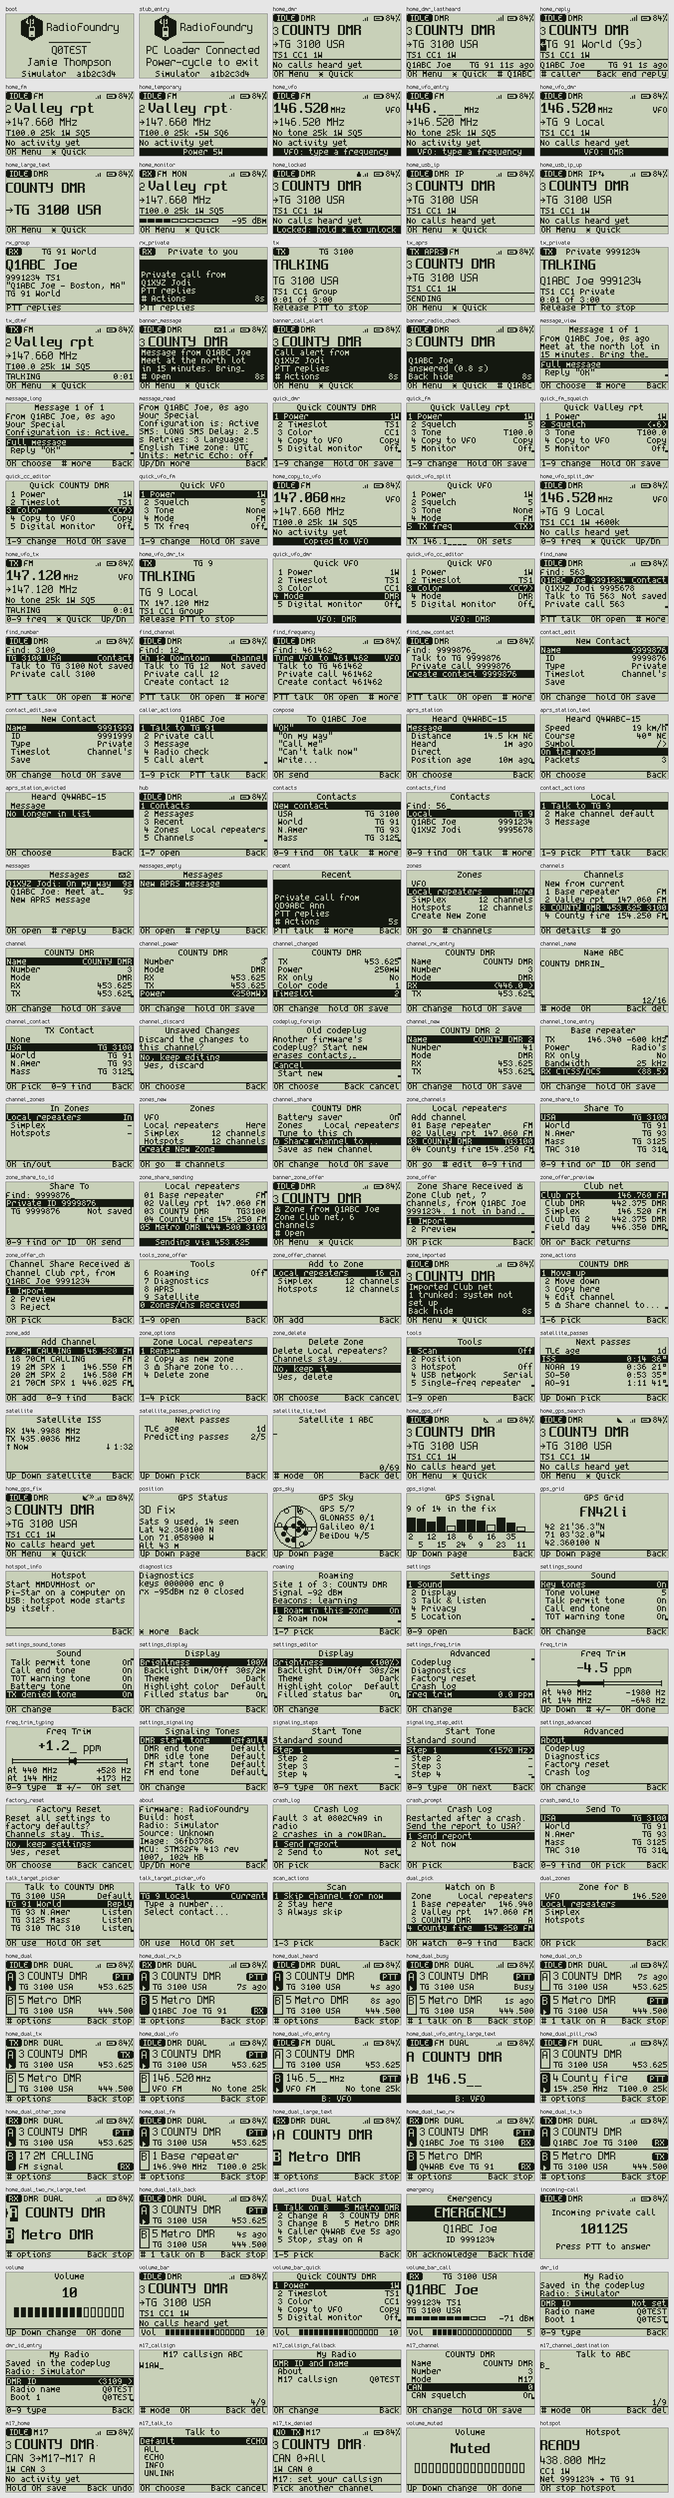
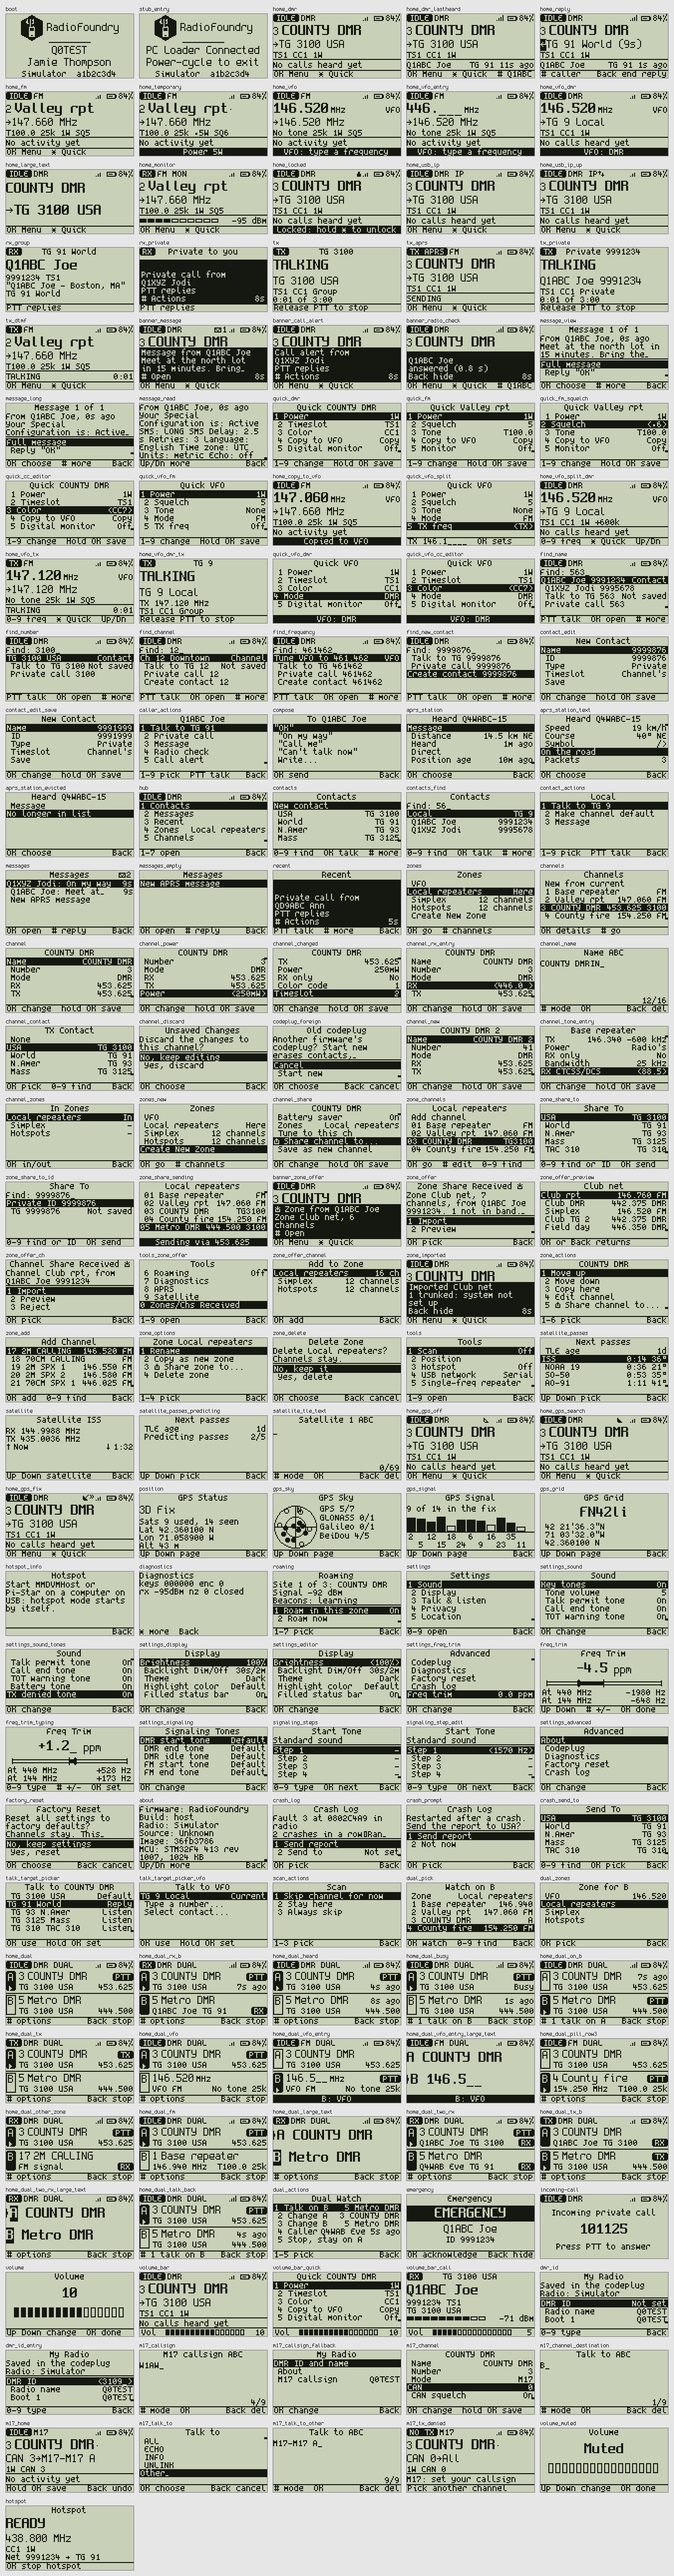
M17: type a custom Talk to destination
Talk to's Other... row opens the shared text editor for a temporary M17
destination (a callsign or a reflector module such as M17-M17 A). The edit is
tied to the channel or VFO it was opened from, the programmed destination is
kept, and changing channel clears the override.

Two Talk to flows from the previous commit now expect six rows and one more Up
press, since Other... is the new last row.

Code and tests by Codex (gpt-6.2-sol) from a Claude brief (45c); reviewed,
host-tested and committed by Claude.

diff --git a/core/ui/ui_menus.c b/core/ui/ui_menus.c
@@ -2105,7 +2105,7 @@ uint8_t ui_menus_zones_moved(ui_frame_t *stack, uint8_t sp, uint32_t from, uint3
 }
 #endif
 
-#if CONFIG_CHANNEL_EDIT || CONFIG_APRS_AFSK || CONFIG_DMR_SMS || CONFIG_SATELLITE_TLE || (CONFIG_M17 && CONFIG_UI_SETTINGS)
+#if CONFIG_CHANNEL_EDIT || CONFIG_APRS_AFSK || CONFIG_DMR_SMS || CONFIG_SATELLITE_TLE || CONFIG_M17
 // ======================= Text entry: keypad letters (ui.md 2.1) =======================
 // Phone keypad: in ABC / abc, 2-9 cycle their letters, the digit, then the letters in the other case (ABC: A B C 2 a b
 // c); 1 cycles punctuation and 0 a space, 0 and a few signs. The same key within 1 s takes the next one, another key
@@ -2134,13 +2134,13 @@ enum { TEXT_NAME, TEXT_MESSAGE, TEXT_CALLSIGN,
 #if CONFIG_SATELLITE_TLE
 	TEXT_SATELLITE,
 #endif
-#if CONFIG_M17 && (CONFIG_UI_SETTINGS || CONFIG_CHANNEL_EDIT)
+#if CONFIG_M17
 	TEXT_M17,
 	TEXT_M17_DST,
 #endif
 	TEXT_PREFIXES };
 static uint8_t text_prefix;
-#if CONFIG_M17 && (CONFIG_UI_SETTINGS || CONFIG_CHANNEL_EDIT)
+#if CONFIG_M17
 enum { TEXT_PROFILE_FREE, TEXT_PROFILE_M17_CALL, TEXT_PROFILE_M17_DST };
 static uint8_t text_profile;
 #endif
@@ -2171,7 +2171,7 @@ static void text_open(char *target, uint8_t max, uint8_t screen)
 	if (screen == SCR_SATELLITE_TEXT)
 		text_prefix = TEXT_SATELLITE;
 #endif
-#if CONFIG_M17 && (CONFIG_UI_SETTINGS || CONFIG_CHANNEL_EDIT)
+#if CONFIG_M17
 	text_profile = TEXT_PROFILE_FREE;
 #if CONFIG_UI_SETTINGS
 	if (screen == SCR_M17_CALL) {
@@ -2180,13 +2180,11 @@ static void text_open(char *target, uint8_t max, uint8_t screen)
 		text_max = max;
 	}
 #endif
-#if CONFIG_CHANNEL_EDIT
-	if (screen == SCR_M17_CHAN_DST) {
+	if (screen == SCR_M17_CHAN_DST || screen == SCR_M17_TALK_TO_OTHER) {
 		text_prefix = TEXT_M17_DST;
 		text_profile = TEXT_PROFILE_M17_DST;
 		text_max = max;
 	}
-#endif
 #endif
 	ui_push(screen, 0);
 }
@@ -2293,8 +2291,8 @@ static void text_append(char c)
 	text_buf[text_len] = 0;
 }
 
-#if CONFIG_M17 && (CONFIG_UI_SETTINGS || CONFIG_CHANNEL_EDIT)
-// Callsign: A-Z, 0-9, - / . Fold a-z. Destination (the channel editor) also allows a space inside.
+#if CONFIG_M17
+// Callsign: A-Z, 0-9, - / . Fold a-z. A destination also allows a space inside.
 static bool text_m17_ok(char c)
 {
 	if (c >= 'a' && c <= 'z')
@@ -2372,7 +2370,7 @@ static void text_draw(void)
 #if CONFIG_SATELLITE_TLE
 		TRN(SATELLITE_2, "Satellite"),
 #endif
-#if CONFIG_M17 && (CONFIG_UI_SETTINGS || CONFIG_CHANNEL_EDIT)
+#if CONFIG_M17
 		TRN(M17_LABEL_CALLSIGN, TEXT_ALT_OPEN "M17 callsign" TEXT_ALT_NEXT "M17 call" TEXT_ALT_CLOSE),
 		TRN(M17_LABEL_TALK_TO, "Talk to"),
 #endif
@@ -2452,7 +2450,7 @@ static bool text_key_fn(const input_event_t *ev)
 	if (ev->action >= ACT_DIGIT_0 && ev->action <= ACT_DIGIT_9 && press) {
 		int8_t k = (int8_t)(ev->action - ACT_DIGIT_0);
 		const char *set = keys[k];
-#if CONFIG_M17 && (CONFIG_UI_SETTINGS || CONFIG_CHANNEL_EDIT)
+#if CONFIG_M17
 		if (text_profile != TEXT_PROFILE_FREE) {
 			if (text_mode == TEXT_DIGITS || ev->gesture == GESTURE_LONG) {
 				text_m17_take((char)('0' + k), false);
@@ -2490,7 +2488,7 @@ static bool text_key_fn(const input_event_t *ev)
 	int dir = ev->action == ACT_NAV_UP ? 1 : ev->action == ACT_NAV_DOWN ? -1 :
 		ev->action == ACT_ENC_STEP ? (ev->value > 0 ? 1 : -1) : 0;
 	if (dir != 0 && ev->gesture != GESTURE_UP) {
-#if CONFIG_M17 && (CONFIG_UI_SETTINGS || CONFIG_CHANNEL_EDIT)
+#if CONFIG_M17
 		if (text_profile != TEXT_PROFILE_FREE) {
 			text_m17_step(dir);	// the allowed alphabet only; down from its first character deletes
 			text_key = -1;
@@ -2537,20 +2535,19 @@ static bool text_key_fn(const input_event_t *ev)
 	}
 	if (ev->action == ACT_SELECT && press) {
 		if (!(board.caps & CAP_KEYPAD) && ev->gesture == GESTURE_PRESS) {
-#if CONFIG_M17 && (CONFIG_UI_SETTINGS || CONFIG_CHANNEL_EDIT)
+#if CONFIG_M17
 			if (text_profile != TEXT_PROFILE_FREE)
 				text_m17_take(text_len > 0 ? text_buf[text_len - 1] : 'A', false);
 			else
 #endif
 				text_append(text_len > 0 ? text_buf[text_len - 1] : 'A');	// the next character, started as this one
 		} else {
-#if CONFIG_M17 && (CONFIG_UI_SETTINGS || CONFIG_CHANNEL_EDIT)
+#if CONFIG_M17
 			if (text_profile != TEXT_PROFILE_FREE && !text_m17_commit()) {
 				ui_toast(TR(M17_TOAST_CHAR, "Letters, digits and - / ."));
 				ui_dirty();
 				return true;
 			}
-#if CONFIG_CHANNEL_EDIT
 			if (text_profile == TEXT_PROFILE_M17_DST) {
 				uint64_t dst;
 				if (!m17_dst_parse(text_buf, &dst)) {
@@ -2559,7 +2556,6 @@ static bool text_key_fn(const input_event_t *ev)
 					return true;
 				}
 			}
-#endif
 #endif
 			if (text_target != text_buf)
 				strcpy(text_target, text_buf);
@@ -8444,8 +8440,10 @@ static const ui_scr_def_t picker_screen = {
 
 #if CONFIG_M17
 static const char *const m17_presets[] = { "ALL", "ECHO", "INFO", "UNLINK" };
+enum { M17_TALK_OTHER = 1 + sizeof m17_presets / sizeof m17_presets[0] };
 static uint32_t m17_talk_generation;
 static uint64_t m17_talk_base;
+static char m17_talk_text[M17_ADDR_CHARS_MAX + 1];
 
 static void m17_talk_enter(void)
 {
@@ -8454,7 +8452,7 @@ static void m17_talk_enter(void)
 	m17_talk_base = sel != NULL ? sel->base_dst : 0;
 }
 
-static uint16_t m17_talk_count(void) { return 1 + sizeof m17_presets / sizeof m17_presets[0]; }
+static uint16_t m17_talk_count(void) { return M17_TALK_OTHER + 1; }
 
 static void m17_talk_item(uint16_t i, ui_item_t *it)
 {
@@ -8462,27 +8460,62 @@ static void m17_talk_item(uint16_t i, ui_item_t *it)
 		char dst[RADIO_M17_CALL_LEN];
 		str_copy(it->label, sizeof it->label, TR(VALUE_DEFAULT, "Default"));
 		str_copy(it->value, sizeof it->value, ui_m17_destination(m17_talk_base, dst));
+	} else if (i == M17_TALK_OTHER) {
+		str_copy(it->label, sizeof it->label, TR(M17_ROW_TALK_OTHER, "Other" GLYPH_ELLIPSIS));
 	} else {
 		str_copy(it->label, sizeof it->label, m17_presets[i - 1]);
 	}
+}
+
+static const radio_m17_selected_t *m17_talk_current(void)
+{
+	const radio_m17_selected_t *sel = ui_m17_selected(ui_view());
+	if (sel == NULL || sel->generation != m17_talk_generation) {
+		ui_toast(TR(M17_TOAST_CHANNEL_CHANGED, "Channel changed"));
+		return NULL;
+	}
+	return sel;
+}
+
+static void m17_talk_submit(const char *dest)
+{
+	if (m17_talk_current() == NULL)
+		return;
+	uint64_t dst = 0;
+	if ((dest != NULL && !m17_dst_parse(dest, &dst)) || !radio_req_m17_talk_to(m17_talk_generation, dst)) {
+		ui_toast(TR(M17_TOAST_TALK_TO_FAILED, "Couldn't queue Talk to"));
+		return;
+	}
+	ui_pop();
+}
+
+static void m17_talk_other_kept(void)
+{
+	m17_talk_submit(m17_talk_text);
 }
 
 static void m17_talk_select(uint16_t i, bool hold)
 {
 	if (hold)
 		return;
-	const radio_m17_selected_t *sel = ui_m17_selected(ui_view());
-	if (sel == NULL || sel->generation != m17_talk_generation) {
-		ui_toast(TR(M17_TOAST_CHANNEL_CHANGED, "Channel changed"));
+	if (i != M17_TALK_OTHER) {
+		m17_talk_submit(i == 0 ? NULL : m17_presets[i - 1]);
 		return;
 	}
-	uint64_t dst = 0;
-	if ((i != 0 && !m17_dst_parse(m17_presets[i - 1], &dst)) || !radio_req_m17_talk_to(m17_talk_generation, dst)) {
-		ui_toast(TR(M17_TOAST_TALK_TO_FAILED, "Couldn't queue Talk to"));
+	const radio_m17_selected_t *sel = m17_talk_current();
+	if (sel == NULL)
 		return;
-	}
-	ui_pop();
+	if (sel->effective_dst == M17_ADDR_BROADCAST)
+		m17_talk_text[0] = '\0';
+	else
+		ui_m17_destination(sel->effective_dst, m17_talk_text);
+	text_open(m17_talk_text, M17_ADDR_CHARS_MAX, SCR_M17_TALK_TO_OTHER);
+	text_done = m17_talk_other_kept;
 }
+
+static const ui_scr_def_t m17_talk_other_screen = {
+	.name = "m17-talk-to-other", .flags = SF_FIELD, .key = text_key_fn, .enter = text_enter, .draw = text_draw,
+};
 
 static const ui_scr_def_t m17_talk_screen = {
 	.name = "m17-talk-to", .flags = SF_LIST | SF_FIELD, .prefix = TRN(M17_LABEL_TALK_TO, "Talk to"),
@@ -8703,6 +8736,7 @@ const ui_scr_def_t *const ui_scr[SCR_COUNT] = {
 #endif
 #if CONFIG_M17
 	[SCR_M17_TALK_TO] = &m17_talk_screen,
+	[SCR_M17_TALK_TO_OTHER] = &m17_talk_other_screen,
 #endif
 #if CONFIG_CRASH_SCREEN
 	[SCR_CRASH] = &crash_screen,

diff --git a/tests/host/uiFlowTest.c b/tests/host/uiFlowTest.c
@@ -301,7 +301,7 @@ static const flow_t flows[] = {
 	{ "M17 home: broadcast is All", "m17 dlmode:m17", "",
 	  "screen=home shows=CAN_0 shows=All", 0, false },
 	{ "M17 Talk to: stored list", SIM_M17_STORED_ECHO,
-	  "quick up up expect:quick8=ECHO expect:shows=ECHO 8 expect:screen=m17-talk-to expect:count=5 "
+	  "quick up up expect:quick8=ECHO expect:shows=ECHO 8 expect:screen=m17-talk-to expect:count=6 "
 	  "expect:focus=Default expect:focusvalue=ECHO down expect:focus=ALL down expect:focus=ECHO "
 	  "down expect:focus=INFO down expect:focus=UNLINK",
 	  "screen=m17-talk-to m17tx=ECHO m17programmed=ECHO", 8, false },
@@ -315,8 +315,8 @@ static const flow_t flows[] = {
 	  "down down down ok expect:screen=quick expect:quick8=INFO expect:shows=INFO back",
 	  "screen=home shows=INFO m17tx=INFO m17programmed=ECHO", 5, false },
 	{ "M17 Talk to: every preset (UNLINK)", SIM_M17_STORED_ECHO " quick 8",
-	  "up ok expect:screen=quick expect:quick8=UNLINK expect:shows=UNLINK back",
-	  "screen=home shows=UNLINK m17tx=UNLINK m17programmed=ECHO", 3, false },
+	  "up up ok expect:screen=quick expect:quick8=UNLINK expect:shows=UNLINK back",
+	  "screen=home shows=UNLINK m17tx=UNLINK m17programmed=ECHO", 4, false },
 	{ "M17 Talk to: VFO Default", "m17 dlvfo:438800000 dlmode:m17 m17vfo:ECHO quick 8",
 	  "expect:focusvalue=ECHO down down down ok expect:screen=quick expect:quick8=INFO expect:shows=INFO "
 	  "back expect:screen=home expect:m17tx=INFO expect:shows=INFO quick 8 ok "
@@ -325,13 +325,44 @@ static const flow_t flows[] = {
 	{ "M17 Talk to: stored Default and channel change", SIM_M17_STORED_ECHO " m17stored:5,UNLINK quick 8 down down down ok",
 	  "8 expect:focusvalue=ECHO ok expect:screen=quick expect:quick8=ECHO back "
 	  "expect:screen=home expect:m17tx=ECHO expect:shows=ECHO expect:m17programmed=ECHO "
-	  "quick 8 up ok back expect:m17tx=UNLINK dlpos:5 expect:m17tx=UNLINK dlpos:3",
-	  "screen=home m17tx=ECHO m17programmed=ECHO shows=ECHO m17requests=3", 8, false },
+	  "quick 8 up up ok back expect:m17tx=UNLINK dlpos:5 expect:m17tx=UNLINK dlpos:3",
+	  "screen=home m17tx=ECHO m17programmed=ECHO shows=ECHO m17requests=3", 9, false },
+	{ "M17 Talk to Other: opens", SIM_M17_STORED_ECHO " quick 8",
+	  "down down down down down expect:focus=Other ok",
+	  "screen=m17-talk-to-other shows=Talk_to shows=ABC showsraw=ECHO_ shows=4/9 m17requests=0", 6, false },
 #if CONFIG_CHANNEL_EDIT
+	{ "M17 Talk to Other: reflector", SIM_M17_STORED_ECHO " m17stored:5,UNLINK quick 8 up ok",
+	  "back back back back 6 long:1 long:7 1 1 6 long:1 long:7 0 2 expect:shows=M17-M17_A expect:shows=9/9 "
+	  "ok expect:screen=quick expect:quick8=M17-M17_A expect:m17tx=M17-M17_A back "
+	  "expect:screen=home expect:shows=M17-M17_A expect:m17tx=M17-M17_A "
+	  "ok 5 ok down down down down down expect:screen=channel expect:focus=Talk_to expect:focusvalue=ECHO "
+	  "expect:m17programmed=ECHO long:back dlpos:5 expect:m17tx=UNLINK expect:m17programmed=UNLINK dlpos:3",
+	  "screen=home m17tx=ECHO m17programmed=ECHO m17requests=1", 26, false },
 	{ "M17 Talk to: channel editor", SIM_M17_STORED_ECHO " quick 8 down down down ok",
 	  "expect:quick8=INFO back expect:screen=home expect:shows=INFO ok 5 ok down down down down down",
 	  "screen=channel focus=Talk_to focusvalue=ECHO m17tx=INFO m17programmed=ECHO", 9, false },
 #endif
+	{ "M17 Talk to Other: lowercase", "m17 dlvfo:438800000 dlmode:m17 m17vfo:ALL quick 8 up ok",
+	  "expect:shows=0/9 ctx ctx expect:shows=abc 9 ok expect:screen=quick expect:quick8=W back",
+	  "screen=home vfo=1 m17base=ALL m17tx=W m17requests=1", 5, false },
+	{ "M17 Talk to Other: blank", SIM_M17_STORED_ECHO " quick 8 down down down ok 8 up ok",
+	  "expect:showsraw=INFO_ back back back back ok expect:screen=quick expect:quick8=All back",
+	  "screen=home m17tx=ALL m17programmed=ECHO m17requests=2", 6, false },
+	{ "M17 Talk to Other: ALL", SIM_M17_STORED_ECHO " quick 8 up ok",
+	  "back back back back 2 5 5 5 wait:1100 5 5 5 ok expect:screen=quick expect:quick8=All back",
+	  "screen=home m17tx=ALL m17programmed=ECHO m17requests=1", 13, false },
+	{ "M17 Talk to Other: invalid", SIM_M17_STORED_ECHO " quick 8 up ok",
+	  "back back back back 0 2 ok",
+	  "screen=m17-talk-to-other toast=Not_an_M17_address shows=2/9 m17tx=ECHO m17requests=0", 7, false },
+	{ "M17 Talk to Other: back", SIM_M17_STORED_ECHO " quick 8 down down down ok 8 up ok",
+	  "2 back back back back back back expect:screen=m17-talk-to expect:focus=Other expect:m17requests=1 "
+	  "ok expect:showsraw=INFO_ 2 long:back",
+	  "screen=home m17tx=INFO m17programmed=ECHO m17requests=1", 10, false },
+	{ "M17 Talk to Other: stale", SIM_M17_STORED_ECHO " m17stored:5,UNLINK quick 8 up ok",
+	  "2 dlpos:5 expect:screen=m17-talk-to-other expect:m17gen=2 ok "
+	  "expect:screen=m17-talk-to expect:toast=Channel_changed expect:m17requests=0 "
+	  "back expect:screen=quick expect:quick8=UNLINK back",
+	  "screen=home m17tx=UNLINK m17programmed=UNLINK m17requests=0", 4, false },
 #if CONFIG_DUAL_WATCH
 	{ "M17 Talk to: selected watch side", SIM_M17_STORED_ECHO " m17stored:5,UNLINK quick 7 ctx 3 5 ok",
 	  "ctx 1 expect:sel=B expect:m17gen=2 expect:m17tx=ECHO expect:m17selected=UNLINK "
@@ -1629,6 +1660,12 @@ static const flow_t flows_k[] = {
 static const flow_t flows_f[] = {
 	{ "F next channel", "", "up", "pos=4", 1, false },
 	{ "F quick settings (long OK)", "", "long:ok", "screen=quick", 1, false },
+#if CONFIG_M17
+	{ "F M17 Talk to Other by Up / Down", "m17 m17stored:3,ALL",
+	  "long:ok up up ok up ok expect:screen=m17-talk-to-other down ok up long:ok "
+	  "expect:screen=quick expect:quick8=AB back",
+	  "screen=home m17tx=AB m17requests=1", 11, false },
+#endif
 	{ "F last caller (Hub item 0)", CALLER, "ok ok ptt", "txid=91", 3, false },
 	{ "F zone", "", "ok down down down down ok down ok", "zone=1", 8, false },
 	// A key set to key lock on a key map with no QUICK: long Back still unlocks as well

diff --git a/tests/host/uiSim.c b/tests/host/uiSim.c
@@ -228,7 +228,8 @@ static const struct { const char *name, *script; } gallery[] = {
 	{ "m17_channel", "m17 ok 5 ok down down ok down" },
 	{ "m17_channel_destination", "m17 ok 5 ok down down ok down down down ok back back back 2 2" },
 	{ "m17_home", "m17 dlmode:m17 m17tx:3,M17-M17_A" },
-	{ "m17_talk_to", SIM_M17_STORED_ECHO " quick 8" },
+	{ "m17_talk_to", SIM_M17_STORED_ECHO " quick 8 down down down down down" },
+	{ "m17_talk_to_other", SIM_M17_STORED_ECHO " quick 8 up ok back back back back 6 long:1 long:7 1 1 6 long:1 long:7 0 2" },
 	{ "m17_tx_denied", "m17 dlmode:m17 m17deny:call" },
 #endif
 	{ "volume_muted", "softvol volkey down down down down down down down down" },

diff --git a/core/ui/ui_nav.h b/core/ui/ui_nav.h
@@ -52,6 +52,7 @@ typedef enum {
 	SCR_M17_CALL,			// the radio-wide M17 callsign (Settings > My radio; CONFIG_M17)
 	SCR_M17_CHAN_DST,		// an M17 channel's Talk to (the channel editor; CONFIG_M17)
 	SCR_M17_TALK_TO,		// temporary M17 destination (Quick settings; CONFIG_M17)
+	SCR_M17_TALK_TO_OTHER,		// custom temporary M17 destination (CONFIG_M17)
 	SCR_COUNT
 } ui_scr_t;
 

diff --git a/docs/spec/m17.md b/docs/spec/m17.md
@@ -391,11 +391,19 @@ the DMR vocoder's working memory) while it runs. It needs no stock codec in flas
 | Quick 8: Talk to | a temporary destination for the selected M17 channel or VFO |
 
 Quick shows the effective transmit destination, with broadcast shown as **All**. Select **Talk to** to open
-`m17-talk-to`. The first row is **Default** and shows the base destination for the channel or VFO. It is followed by
-`ALL`, `ECHO`, `INFO` and `UNLINK`. **Default** clears the temporary choice. OK queues the choice and returns to
-Quick. Back cancels and returns to Quick, and Back from Quick reaches Home. The picker captures the base and
-generation at entry. If the selected generation has changed, or the UI cannot queue the request, the picker
-shows a message and stays open.
+`m17-talk-to`. Its rows are **Default**, `ALL`, `ECHO`, `INFO`, `UNLINK` and **Other…**, in that order.
+**Default** shows the base destination for the channel or VFO and clears the temporary choice. OK queues a choice
+and returns to Quick. Back leaves the picker for Quick, and Back from Quick reaches Home.
+
+**Other…** opens `m17-talk-to-other` with the shared **Talk to** prompt and the effective destination as its
+initial text, blank for broadcast. The shared nine-character destination editor folds lowercase and accepts
+spaces inside the address. OK uses the same parser as the stored channel editor. Blank or `ALL` selects broadcast.
+An invalid address shows **Not an M17 address** and leaves the editor open. Back deletes and leaves once the field
+is empty. Hold Back goes Home where supported. Leaving without OK discards the text. The channel editor loads
+and saves the programmed destination as part of the channel record. Quick choices apply only to the current selection.
+
+The picker captures the base and generation at entry, and **Other…** retains that generation until submission.
+If the selected generation has changed or the UI cannot queue the request, the picker shows a message.
 
 The radio task owns one temporary destination in RAM. A stored selection is identified by its zone, position and
 resolved channel number. A VFO selection uses its index and RX and TX frequencies. Changing that identity,
@@ -424,7 +432,7 @@ including the tune for PTT. Talk to keeps the callsign, CAN, CAN squelch, BERT s
 | `tests/host/m17VoiceTest.c` | queues, playback start, lost frames, silence filler, signature frames muted (with a stub codec) |
 | `tests/host/m17CodeplugTest.c`, `site/tests/modes.test.mjs` | the kind's block and radio-wide record against `tests/vectors/channel-modes.txt` |
 | HIL `tests/hil/test_m17.py` | Quick Talk to and Default on a receive-only stored channel with opt-in codeplug write, BERT both ways against the bench's 4FSK transmitter and receiver, a stream's LSF off air, a text message, voice once the codec is in (`@pytest.mark.feature("m17")`) |
-| `tests/host/uiFlowTest.c` | Quick and Home destination, preset order and selection, Default on the VFO, programmed destination in the editor, selected dual-watch pane, Back, stale context, queue failure, and availability |
+| `tests/host/uiFlowTest.c` | Quick and Home destination, row order and presets, Default on the VFO, programmed destination in the channel editor, selected dual-watch pane, queue failure, availability, and Other with keypad and few-key entry, a reflector, lowercase, broadcast, invalid input, Back, and stale context |
 | `tests/host/radioCoreTest.c` | blank-callsign TX refusal and BERT, stored channel TX, Talk to in the engine LSF and running view, Default and channel changes, deferred application at immediate rekey, watch sampling and selected PTT, generation checks after reload, frequency and mode changes, and restart |
 | `tools/bench/m17tool.py` | the firmware's own frame codec built for the host: BERT and stream symbol files for the bench, decode of captured symbols |
 

diff --git a/docs/user/04-programming.md b/docs/user/04-programming.md
@@ -238,12 +238,19 @@ On the home screen an M17 channel shows **M17**, a line **CAN n** then the desti
 **CAN n** beside the power. The VFO's mode cycle includes M17 on a radio that carries it. Pressing PTT with no
 callsign shows **M17: set your callsign**. A radio that can hear M17 but not send it shows **M17: receive only**.
 
-Open **Quick settings > 8 Talk to** to choose `ALL`, `ECHO`, `INFO` or `UNLINK` for the current M17 channel or
-VFO. **Default** shows and restores the channel's programmed destination or the VFO's base destination. OK
-returns to Quick settings and Back returns to Home. Quick shows the destination in use, as does the transmit
-line on single-channel Home. The choice is temporary
-and leaves the programmed destination in the channel editor. Changing channels or VFO frequencies, leaving M17,
-selecting a different dual-watch pane, or restarting clears the choice.
+Open **Quick settings > 8 Talk to** for the current M17 channel or VFO. The rows are **Default**, `ALL`, `ECHO`,
+`INFO`, `UNLINK` and **Other…**, in that order. **Default** shows and restores the channel's programmed
+destination or the VFO's base destination.
+
+Choose **Other…** to open **Talk to** with the destination in use, or an empty field when calling everyone.
+Enter a callsign or reflector such as `M17-M17 A`. Lowercase becomes uppercase. Leave the field blank or enter
+`ALL` to call everyone. OK applies the choice and returns to Quick settings. If the address is invalid, the editor
+stays open so you can fix it. Back deletes a character or cancels on an empty field. Hold Back where supported to
+cancel and go Home.
+
+Quick and single-channel Home show the temporary destination in use. To change the programmed destination, edit
+**Talk to** in the channel's own settings and save the channel. Changing channels or VFO frequencies, leaving M17,
+selecting a different dual-watch pane, or restarting clears the temporary choice.
 
 Set your **M17 callsign** on the **Radio** tab, or on the radio under **Settings > My radio > M17 callsign**. If it
 is blank, the radio uses the first word of the radio name, up to a space or `-`. M17 voice transmission requires a
